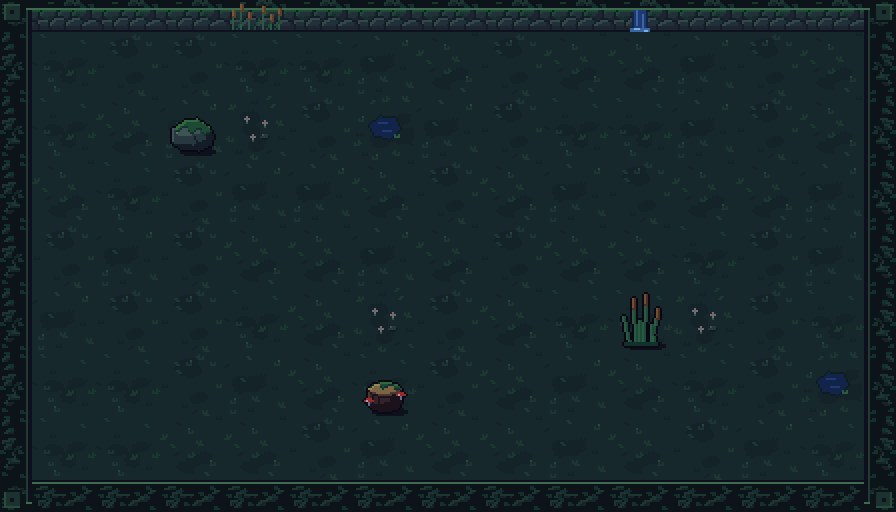
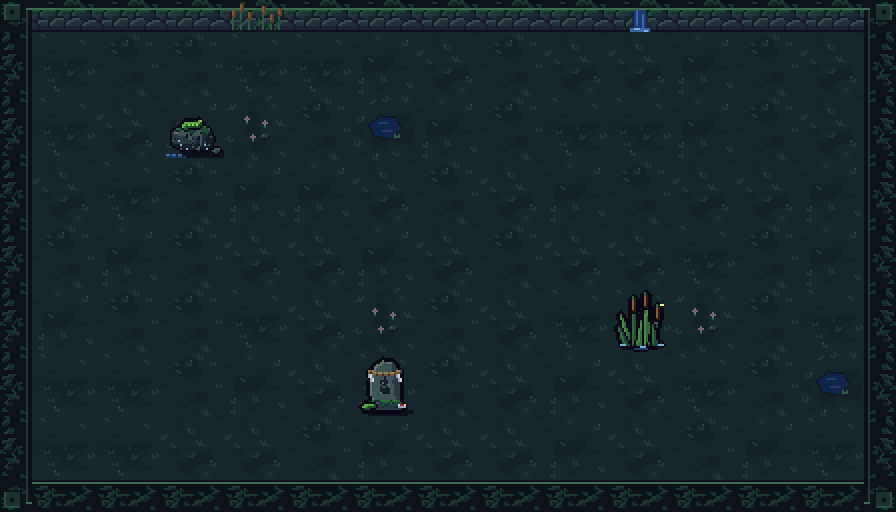
Runde 52: Requisiten Kawabe (Flussfels mit Kappa-Gurke, Rohrkolben im Seichtwasser, Suijin-Stein 水神) und Yashiki (Tansu mit Augen in der Lade, Andon mit Totenlicht, goldener Byōbu mit Fingern) in Hi-Res neu
Claude-Session: https://claude.ai/code/session_01KhgxT8yTrN9KxCK3Nsq5aZ

Changed region(s): [[0.6875, 0.5625, 0.75, 0.6875], [0.4062, 0.6875, 0.4688, 0.8125], [0.1875, 0.2188, 0.25, 0.3125]]

diff --git a/art_src/fable/environment/props.py b/art_src/fable/environment/props.py
@@ -44,6 +44,12 @@ GLYPHS = [                                               # 家 之 墓, 7x7 Hi-R
 ]
 
 
+SUIJIN = [                                               # 水 神
+    ["...x...", "...x...", "xx.x.x.", ".x.xx..", ".xxx.x.", "x..x..x", "..xx..."],
+    [".x....x..", "xxx.xxxxx", "..x.x.x.x", ".xx.xxxxx", "x.x.x.x.x", "..x.xxxxx", "..x...x.."],
+]
+
+
 # ------------------------------------------------------------------ shared motifs
 def boulder(cv, rng, ramp, cx=16, by=28, rx=11, ry=9):
     """Felsbrocken mit drei Facetten (Licht oben links), Rissen, Körnung und Kieseln am Fuß."""
@@ -578,64 +584,146 @@ def rocks(name):
         out.append(fin(cv, P))
 
     elif name == 'kawabe':
-        cv, rng, m = plain_boulder(0)
-        cover(cv, m, MOSS, 6, rng)
+        cv, rng, m = plain_boulder(0, rx=11, ry=8)           # Flussfels mit Kappa-Opfergurke, nass am Wasserrand
+        cover(cv, m, MOSS, 4, rng)
+        for (x, y) in ((9, 22), (10, 23.5), (22.5, 24), (23, 25.5), (13, 26.5)):
+            cv.hpx(x, y, WATER[3])
+        cu = capsule(cv, 12, 14.5, 1.7, 19, 13.5, 1.5)          # Gurke: Lieblingsspeise der Kappa
+        cv.fill(dil(cu), K)
+        cv.form(cu, ('#1c4a24', '#2e7a34', '#5aa848'), 1, 1)
+        for x in (13.5, 15.5, 17.5):
+            cv.hpx(x, 14, '#9ad070')
+        cv.hpx(19.5, 12.5, '#c8b040')
         out.append(fin(cv, P))
-        cv, rng = new(1)                                     # cattail clump
-        a, b = P['leaf']
-        for (x0, x1, h) in ((10, 7, 14), (13, 12, 21), (17, 18, 23), (20, 24, 16), (15, 15, 12), (22, 21, 10)):
-            cv.line([(x0, 28), (x1, 28 - h)], a)
-            cv.line([(x0 + 1, 28), (x1 + 1, 28 - h)], MOSS[1])
-        for (x, y) in ((12, 5), (18, 3), (24, 10)):
-            cv.rect(x, y, x + 1, y + 5, '#4a2e26')
-            cv.vl(x, y, y + 4, '#74502c')
-        cv.rect(8, 27, 24, 28, MOSS[0])
-        out.append(fin(cv, P))
-        cv, rng = new(2)                                     # stump with mushrooms
-        w = ('#1c121c', '#33242a', '#4e382e', '#6e5238')
-        m, t = cyl(cv, w, 16, 28, 8, 10, top=('#4e382e', '#7a6444', '#988458'))
-        for x in (10, 13, 19, 22):
-            cv.vl(x, 22, 27, w[0])
-        cover(cv, t, MOSS, 2, rng)
-        for (x, y) in ((6, 23), (22, 20)):
-            cv.grid(x, y, ".rrr.\nrRrrr\n..s..\n..s..", dict(r=RED[2], R=PAPER[2], s=PAPER[1]))
+        for x0, x1, y in ((3, 29, 29), (6, 26, 30.5)):       # Wellenringe um den Fuß
+            for i in range(int((x1 - x0) * 2)):
+                x = x0 + i * .5
+                if (i // 3) % 2 == 0 and not cv.m[int(y * cv.ss), int(x * cv.ss)]:
+                    cv.hpx(x, y, WATER[2] if y < 30 else WATER[1])
+
+        cv, rng = new(1)                                     # Gama-Röhricht im Seichtwasser, ein Glühwürmchen
+        pool = cv.E(16, 27.5, 11, 2.6)
+        cv.fill(pool, WATER[1])
+        cv.fill(pool & ~sh(pool, 0, 2 * cv.ss), WATER[0])
+        for (x0, x1, h, d) in ((10, 6, 15, 1), (13, 12, 21, 0), (18, 19, 23, 1), (21, 25, 17, 0), (15, 16, 12, 1),
+                               (23, 22, 10, 0), (8, 5, 9, 0)):
+            bl = cv.PG([(x0 - 1, 28), (x1, 28 - h), (x0 + 1.5, 28)])
+            cv.fill(dil(bl), K)
+            cv.fill(bl, MOSS[2] if d else MOSS[1])
+            cv.hline([(x0 - .5, 27), (x1, 29 - h)], MOSS[3] if d else MOSS[2])
+        for (x, y) in ((12, 5), (18, 3), (24, 9)):           # Kolben mit Lichtkante und Spitze
+            hd = capsule(cv, x + .5, y + 1, 1.2, x + .5, y + 5, 1.2)
+            cv.fill(dil(hd), K)
+            cv.form(hd, ('#2e1a16', '#5a3824', '#8a5a32'), 1, 1)
+            cv.hline([(x + .5, y - 1.5), (x + .5, y - .2)], MOSS[2])
+        for (x, y) in ((6, 28), (25, 27.5), (16, 29)):
+            cv.hline([(x, y), (x + 2, y)], WATER[3])
+        out.append(fin(cv, P, shadow=False))
+        cv.fill(cv.E(27, 8, .9, .9), '#6a8a2a')              # Hotaru
+        cv.hpx(27, 8, '#e8f070')
+        cv.hpx(26.5, 7.5, '#f8ffc0')
+
+        cv, rng = new(2)                                     # Suijin-Stein: Flussgott, Shimenawa, Gurke und Sake
+        m = cv.PG([(10, 28), (9, 15), (11, 7), (15, 4), (20, 5), (23, 10), (23, 20), (24, 28)])
+        cv.fill(dil(m), K)
+        cv.form(m, (k[1], k[2], k[3]), 3, 1)
+        cv.line([(20, 7), (21, 12), (20, 15)], k[1])
+        for gi, g in enumerate(SUIJIN):                      # eingemeißelt: 水神
+            for j, row in enumerate(g):
+                for i2, ch in enumerate(row):
+                    if ch == 'x':
+                        x, y = 16 - len(row) / 4 + i2 * .5, 12.5 + gi * 4.5 + j * .5
+                        cv.hpx(x + .5, y + .5, k[3])
+                        cv.hpx(x, y, k[0])
+        rope(cv, 8, 24, 9, 1.2, shide=(8, 22))
+        cover(cv, m & (cv.Y >= 24), MOSS, 2, rng)
+        cu = capsule(cv, 6, 27, 1.3, 10.5, 26.5, 1.2)
+        cv.fill(dil(cu), K)
+        cv.form(cu, ('#1c4a24', '#2e7a34', '#5aa848'), 1, 1)
+        cv.rect(23, 26, 26, 27, PAPER[2])                    # Sakazuki mit Rand
+        cv.hl(23, 26, 26, PAPER[3])
+        cv.hpx(24.5, 26, RED[2])
+        cv.hpx(25, 26, RED[2])
         out.append(fin(cv, P))
 
     elif name == 'yashiki':
-        cv, rng = new(0)                                     # tansu chest
-        box(cv, k, 6, 8, 26, 28, top=4)
-        for y in (17, 22):
-            cv.hl(7, 23, y, k[0])
-        for (x, y) in ((14, 14), (14, 19), (14, 24)):
-            cv.rect(x, y, x + 3, y + 1, IRON[2])
-            cv.hl(x, x + 3, y + 1, IRON[0])
-        cv.vl(15, 23, 27, k[0])
+        lac = ('#140c14', '#2a1820', '#46282a', '#663a30')  # dunkles Kiri-Holz, rot lackiert gealtert
+        cv, rng = new(0)                                     # Tansu: Eisenbeschläge, Ringgriffe, oberste Lade offen
+        box(cv, lac, 6, 7, 26, 28, top=3)
+        for y in (13, 19, 24):
+            cv.hl(7, 23, y, lac[0])
+            cv.hl(7, 23, y + 1, lac[2])
+        cv.vl(15, 19, 24, lac[0])
+        cv.rect(7, 10, 23, 12, K)                            # die Lade steht einen Spalt offen ...
+        cv.hl(7, 23, 10, lac[0])
+        for x in (12, 18):                                   # ... und etwas schaut heraus
+            cv.hpx(x, 11, GOLD[3])
+            cv.hpx(x + .5, 11, GOLD[2])
+            cv.hpx(x, 11.5, GOLD[1])
+        for (x, y) in ((6, 10), (23, 10), (6, 25), (23, 25)):     # Kanamono an den Ecken
+            cv.rect(x, y, x + 2, y + 2, IRON[2])
+            cv.hpx(x + .5, y + .5, IRON[3])
+            cv.hpx(x + 2, y + 2, IRON[0])
+        for (x, y) in ((10.5, 16), (19.5, 16), (10.5, 21.5), (19.5, 21.5), (15.5, 26)):
+            cv.hline([(x - 1.5, y - .5), (x + 1.5, y - .5)], IRON[1])     # Warabite-Bügelgriff
+            cv.hline([(x - 1.5, y), (x - 1, y + .5), (x + 1, y + .5), (x + 1.5, y)], IRON[2])
+            cv.hpx(x - 1, y + .5, IRON[3])
         out.append(fin(cv, P))
-        cv, rng = new(1)                                     # unlit andon lamp
-        pa = ('#2a2636', '#4a4456', '#6a6276', '#8a8290')
-        cv.rect(10, 9, 22, 25, pa[1])
-        cv.rect(10, 9, 14, 25, pa[2])
-        cv.rect(19, 9, 22, 25, pa[0])
+
+        cv, rng = new(1)                                     # Andon: kalt brennt darin ein Totenlicht
+        fr = ('#120a10', '#2a1a1a', '#4a3024', '#6a4a30')
+        pap = cv.R(10, 8, 22, 24)
+        cv.fill(pap, '#6a6478')
+        glow = cv.E(16, 17, 6, 7) & pap
+        cv.fill(glow, '#7a7aa8')
+        cv.fill(cv.E(16, 18, 3.6, 4.4) & pap, ONIBI[2])
+        cv.fill(cv.E(16, 18.5, 1.6, 2.4) & pap, ONIBI[3])
+        cv.fill(pap & (cv.X >= 19.5), mix('#6a6478', K, .35))
         for x in (10, 16, 22):
-            cv.vl(x, 8, 28, k[1] if x < 22 else k[0])
-        for y in (8, 14, 20, 25):
-            cv.hl(10, 22, y, k[1])
-        cv.hl(10, 22, 8, k[2])
-        cv.fill(cv.PG([(17, 10), (21, 13), (18, 13), (20, 19)]), K)   # torn paper
-        cv.rect(9, 26, 23, 26, k[2])
+            cv.vl(x, 7, 28, fr[2] if x < 22 else fr[1])
+        for y in (7, 13, 19, 24):
+            cv.hl(9, 23, y, fr[2])
+            cv.hl(10, 22, y + 1, fr[0]) if y < 24 else None
+        cv.hl(9, 23, 7, fr[3])
+        cv.rect(9, 25, 23, 26, fr[2])
+        cv.hl(9, 23, 25, fr[3])
+        for x in (9, 23):
+            cv.vl(x, 26, 28, fr[1])
+        tear = cv.PG([(17, 9), (20, 9.5), (19, 11), (19.5, 12.5), (18, 11.5)])
+        cv.fill(dil(tear) & pap & ~tear, PAPER[3])
+        cv.fill(tear, K)
+        cv.hline([(17, 9), (16.5, 10.5)], PAPER[3])           # loser Papierfetzen
+        cv.hpx(19, 11, ONIBI[1])
         out.append(fin(cv, P))
-        cv, rng = new(2)                                     # byobu folding screen
-        g = ('#2a2230', '#4a3c3a', '#6a5a44', '#8a7a54')
-        for i, (x0, x1, ya, yb) in enumerate(((4, 11, 9, 6), (11, 18, 6, 9), (18, 25, 9, 6))):
-            m = cv.PG([(x0, ya), (x1, yb), (x1, yb + 19), (x0, ya + 19)])
-            cv.fill(m, g[2] if i % 2 == 0 else g[1])
-            cv.line([(x0, ya), (x1, yb)], k[1])
-            cv.line([(x0, ya + 19), (x1, yb + 19)], k[0])
-            cv.vl(x0, min(ya, yb), ya + 19, k[0])
-        cv.vl(25, 6, 25, k[0])
-        cv.line([(6, 20), (9, 15), (12, 19), (15, 14), (20, 21), (23, 17)], g[0])   # ink mountains
-        cv.fill(cv.E(20, 12, 1.6, 1.6), RED[1])
+
+        cv, rng = new(2)                                     # Byōbu mit Blattgold, Kiefer und roter Sonne; eine Hand am Rand
+        g = (GOLD[0], GOLD[1], GOLD[2], GOLD[3])
+        panels = ((4, 11, 9, 6), (11, 18, 6, 9), (18, 25, 9, 6))
+        for i, (x0, x1, ya, yb) in enumerate(panels):
+            pm = cv.PG([(x0, ya), (x1, yb), (x1, yb + 19), (x0, ya + 19)])
+            cv.fill(pm, g[2] if i % 2 == 0 else g[1])
+            cv.fill(pm & (cv.Y > (ya + yb) / 2 + 13), g[1] if i % 2 == 0 else g[0])
+            cv.line([(x0, ya), (x1, yb)], K)
+            cv.line([(x0, ya + 19), (x1, yb + 19)], K)
+            cv.vl(x0, min(ya, yb), max(ya, yb) + 19, K)
+            cv.hline([(x0 + .5, ya + 1), (x1 - .5, yb + 1)], g[3] if i % 2 == 0 else g[2])
+        cv.vl(25, 6, 25, K)
+        cv.line([(9, 25), (9, 19), (10, 15), (12, 13)], '#2a1a14')     # Kiefernstamm in Tusche
+        cv.line([(10, 15), (7, 14)], '#2a1a14')
+        for (x, y) in ((6, 13), (11, 12), (14, 13), (8, 17)):
+            cv.grid(x - 1, y - 1, "aaa\n.a.", dict(a='#1c3a2a'))
+        cv.line([(13, 20), (16, 17), (19, 21), (22, 18)], '#3a2a20')     # ferne Berge
+        sun = cv.E(21.5, 12.5, 2, 2)
+        cv.fill(sun, RED[2])
+        cv.hpx(21, 12, RED[3])
+        for y in (24.5, 25):                                 # Goldwolken
+            cv.hline([(5, y + 1), (9, y)], g[3])
+        cv.hline([(19, 25.5), (24, 24)], g[3])
         out.append(fin(cv, P))
+        for y in (8, 9.5, 11):                               # bleiche Finger greifen um die Kante
+            cv.hline([(24.5, y), (26.5, y)], '#c8c0c8')
+            cv.hpx(26.5, y + .5, '#8a7a88')
+            cv.hpx(24, y, '#6a2a3a')
 
     elif name == 'oeyama':
         cv, rng, m = plain_boulder(0)

diff --git a/CHANGELOG.md b/CHANGELOG.md
@@ -73,6 +73,7 @@
 - Runde 49 – Lexikon und Codex in beide Richtungen verknüpft: Auf der Synergie-Seite springt **Enter** zu den beteiligten Items im Codex (mehrfach drücken blättert durch sie), **Esc** führt zurück ins Lexikon
 - Runde 50 – **Gesten beim Laufstart**: Im ersten Raum macht deine Figur einmal ihre Geste aus der Charakterauswahl samt Klang – Hana streut Goldfunken, Kenji zieht die Klinge, Kuzunoha ruft Fuchsfeuer, Ponpoko verschwindet im Rauch, Benkei landet mit Staub, Okiku schwebt aus dem Brunnen, Kotarō schlägt mit den Flügeln, Seimei fächert Ofuda auf, Akago glüht, Susanoo ruft den Doppelblitz. Losgehen, Rollen oder Werfen bricht sie sofort ab
 - Runde 51 – **Omikuji im Lexikon**: Die Lose stehen jetzt auf der Lexikon-Seite „Ereignisse“ (mit Sage und Spielhinweis). Neuer Erfolg **Fluch gebunden** für ein Unglückslos am Musubi-Gestell. Das Gestell steht jetzt auch in jedem Kami-Schrein, damit sich Flüche öfter lösen lassen. Der Zähler von „Festtagsgast“ zählt weiter nur die vier Festereignisse
+- Runde 52 – **Flussufer und Spukhaus neu eingerichtet**: Am Kawabe liegt eine Gurke als Kappa-Opfer auf dem nassen Flussfels, Rohrkolben stehen im Seichtwasser mit einem Glühwürmchen, und ein Suijin-Stein mit eingemeißeltem **水神**, Shimenawa, Gurke und Sake-Schale ehrt den Flussgott. Im Yashiki hat die Tansu Eisenbeschläge und eine Lade, aus der zwei Augen schauen, im zerrissenen Andon brennt kaltes Totenlicht, und um den goldenen Byōbu mit Kiefer und roter Sonne greifen bleiche Finger
 
 ## 1.4.0 – „Hyakki-Update“ (enthält 1.3 „Kapitel-Update“)
 
